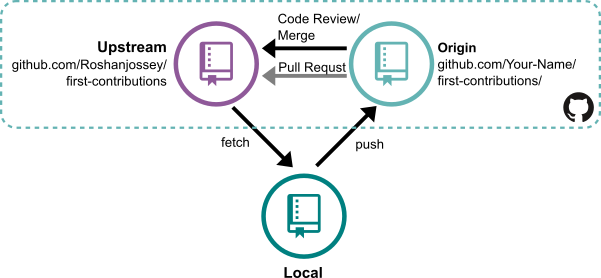
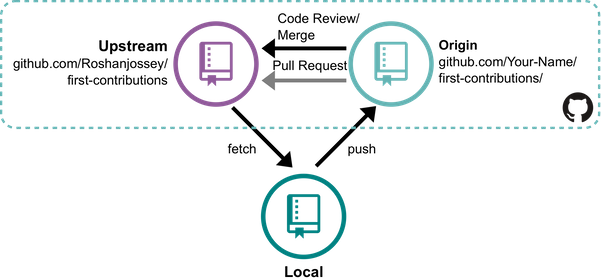
Small fixes on additional material

diff --git a/additional-material/keeping-your-fork-synced-with-this-repository.md b/additional-material/keeping-your-fork-synced-with-this-repository.md
@@ -1,4 +1,4 @@
-# Keeping your fork synced with this repository
+## Keeping your fork synced with this repository
 
 First, the flow for a full sync should be understood. In this schema, there are 3 different repos: my public repo on Github `github.com/Roshanjossey/first-contributions/`, your fork of the repo on GitHub `github.com/Your-Name/first-contributions/` and your local machine's repo from which you are suppose to work. This kind of cooperation is typical for open source projects and called `Triangle Workflows`.
 
@@ -9,7 +9,7 @@ Our second move will be to push your local repo to your GitHub fork. As you've s
 
 Now, let's see how to do it:
 
-First, you must be on your master branch to know which branch you are on check the first line of:
+First, you must be on your master branch. To know which branch you are on, check the first line of:
 ```
 git status
 ```
@@ -27,7 +27,7 @@ This is a way of telling git that another version of this project exists in the 
 git fetch upstream
 ```
 
-You've just fetched the latest version of my fork (upstream remote). Now, you need to merge the public repository into your master branch.
+You've just fetched the latest version of my fork (`upstream` remote). Now, you need to merge the public repository into your master branch.
 ```
 git rebase upstream/master
 ```
@@ -35,7 +35,6 @@ Here you're merging the public repository with your master branch. Your local ma
 ```
 git push origin master
 ```
-Notice here you're pushing to the remote named origin.
+Notice here you're pushing to the remote named `origin`.
 
 At this point, all your repositories are up-to-date. Well done! You should do this, everytime you're GitHub repo tells you that you are a few commits behind.
-

diff --git a/additional-material/removing-branch-from-your-repository.md b/additional-material/removing-branch-from-your-repository.md
@@ -1,6 +1,6 @@
 ## Remove a branch from your repository
 
-If you have followed the tutorial up-to-now, our `<add-your-name>` branch has finished it's purpose, it is time to delete it from your local machine's repo. This isn't necessary, but the name of this branch shows its rather special purpose.  Its life can be made correspondingly short. 
+If you have followed the tutorial up-to-now, our `<add-your-name>` branch has finished its purpose, it is time to delete it from your local machine's repo. This isn't necessary, but the name of this branch shows its rather special purpose. Its life can be made correspondingly short.
 
 First, let's merge your `<add-your-name>` to your master, so to go your master branch:
 ```
@@ -27,3 +27,5 @@ git push origin --delete <add-your-name>
 
 Now, you know how to tidy your branches.
 With time, many commits will be added to my public repo. And the master branches of your local machine and of your GitHub fork won't be up-to-date. So in order to keep your repositories synchronized with mine, follow the steps below.
+
+#### [ Keeping your fork synced with the repository ](keeping-your-fork-synced-with-this-repository.md)
